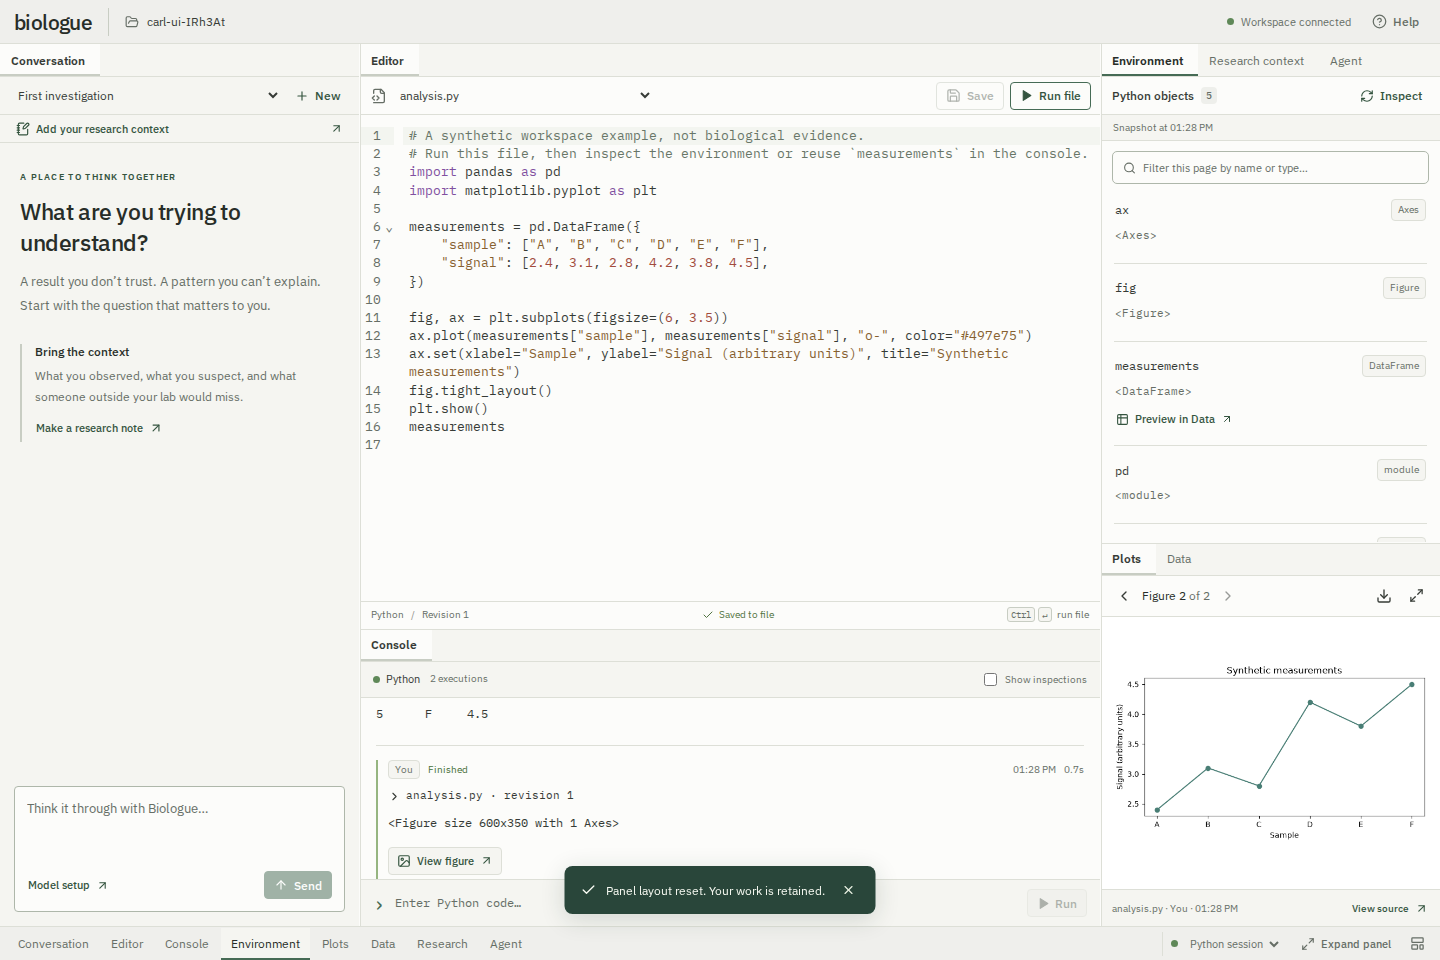
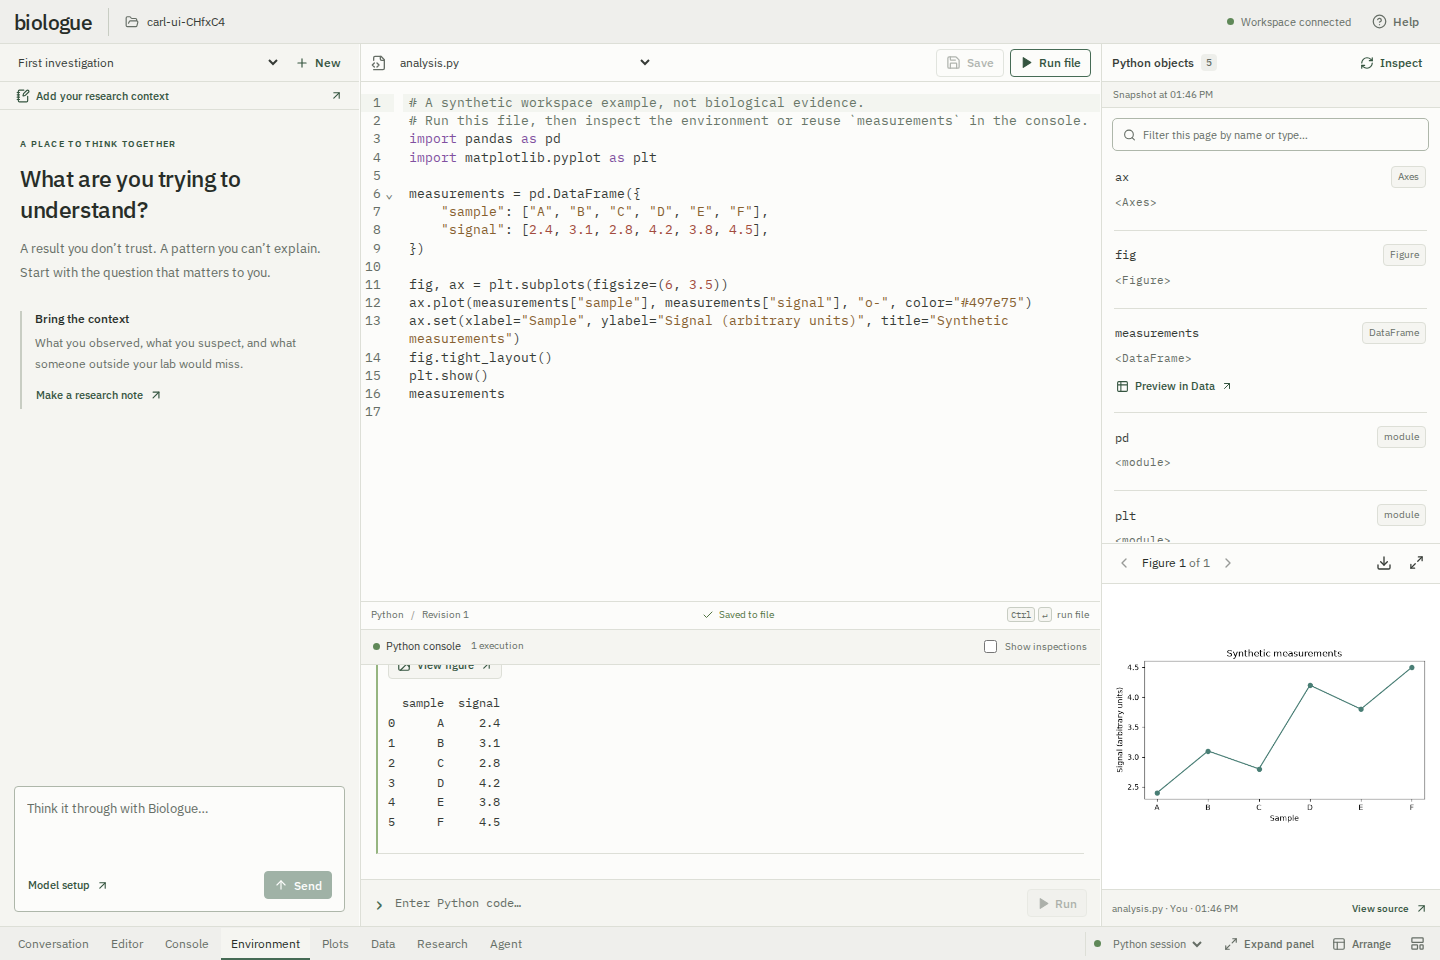
Reclaim pane space with temporary arrangement tabs

diff --git a/packages/workbench/src/App.tsx b/packages/workbench/src/App.tsx
@@ -9,6 +9,7 @@ import {
   LayoutTemplate,
   Maximize2,
   Minimize2,
+  PanelsTopLeft,
   ShieldCheck,
   WifiOff,
   X,
@@ -120,12 +121,26 @@ export function App() {
   const layout = useRef<WorkspaceApi | null>(null);
   const savedLayouts = useRef<Layouts>({});
   const mode = useRef<LayoutMode>(windowMode());
+  const arranging = useRef(false);
   const cleanup = useRef<() => void>(() => {});
   const [active, setActive] = useState<PanelId>("editor");
   const [maximized, setMaximized] = useState(false);
+  const [isArranging, setIsArranging] = useState(false);
   const [help, setHelp] = useState(false);
   const [layoutMode, setLayoutMode] = useState(mode.current);
   const reviewCount = wb.snapshot?.permissions.length || 0;
+  function updateHeader(group: WorkspaceApi["groups"][number]) {
+    const hidden = !arranging.current || mode.current === "narrow";
+    if (group.header.hidden === hidden) return;
+    group.header.hidden = hidden;
+    group.relayout();
+  }
+  function arrangePanels(enabled: boolean) {
+    arranging.current = enabled;
+    setIsArranging(enabled);
+    if (enabled) layout.current?.exitMaximizedGroup();
+    layout.current?.groups.forEach(updateHeader);
+  }
   function reveal(id: PanelId, maximize = false) {
     const target = layout.current?.getPanel(id);
     if (!target) return;
@@ -151,8 +166,10 @@ export function App() {
       } else if (event.altKey && event.key.toLowerCase() === "f") {
         event.preventDefault();
         toggleFocus();
-      } else if (event.key === "Escape" && layout.current?.hasMaximizedGroup())
-        layout.current.exitMaximizedGroup();
+      } else if (event.key === "Escape") {
+        if (arranging.current) arrangePanels(false);
+        else if (layout.current?.hasMaximizedGroup()) layout.current.exitMaximizedGroup();
+      }
     };
     window.addEventListener("keydown", keydown);
     return () => window.removeEventListener("keydown", keydown);
@@ -178,6 +195,7 @@ export function App() {
       restoring = true;
       mode.current = next;
       setLayoutMode(next);
+      if (next === "narrow") arrangePanels(false);
       view.exitMaximizedGroup();
       try {
         const saved = savedLayouts.current[next];
@@ -189,12 +207,15 @@ export function App() {
       } catch {
         defaultLayout(view, next);
       }
+      // Header visibility is temporary; a saved arrangement can contain either state.
+      view.groups.forEach(updateHeader);
       setMaximized(view.hasMaximizedGroup());
       setActive((view.activePanel?.id || "editor") as PanelId);
       restoring = false;
     }
     restore(windowMode());
     const subscriptions = [
+      view.onDidAddGroup(updateHeader),
       view.onDidActivePanelChange((event) => {
         if (event.panel) setActive(event.panel.id as PanelId);
       }),
@@ -286,14 +307,9 @@ export function App() {
         <main
           className={`workspace layout-${layoutMode}`}
           data-expanded={maximized}
+          data-arranging={isArranging}
           aria-label="Scientific workspace"
         >
-          {layoutMode === "narrow" && wb.snapshot && (
-            <div className="mobile-panel-heading">
-              <strong>{panels.find((panel) => panel.id === active)?.title}</strong>
-              <span>Workspace</span>
-            </div>
-          )}
           {wb.snapshot ? (
             <div className="dock-layout">
               <DockviewReact
@@ -372,6 +388,17 @@ export function App() {
             <span>{maximized ? "Restore layout" : "Expand panel"}</span>
           </button>
           <button
+            className="text-button arrange-panels"
+            aria-label={isArranging ? "Done arranging panels" : "Arrange panels"}
+            aria-pressed={isArranging}
+            title={isArranging ? "Finish arranging (Esc)" : "Show tabs to drag and regroup panels"}
+            disabled={!wb.snapshot}
+            onClick={() => arrangePanels(!arranging.current)}
+          >
+            {isArranging ? <Check size={14} /> : <PanelsTopLeft size={14} />}
+            <span>{isArranging ? "Done arranging" : "Arrange"}</span>
+          </button>
+          <button
             className="icon"
             aria-label="Reset panel layout"
             title="Reset layout for this window size"
@@ -379,6 +406,7 @@ export function App() {
             onClick={() => {
               if (layout.current) {
                 defaultLayout(layout.current, mode.current);
+                layout.current.groups.forEach(updateHeader);
                 wb.notify("Panel layout reset. Your work is retained.");
               }
             }}
@@ -405,8 +433,9 @@ export function App() {
       {help && (
         <Dialog title="Make yourself at home" onClose={() => setHelp(false)}>
           <p>
-            Drag tabs to arrange your workspace. The layout adapts to smaller windows and remembers
-            your arrangement at each size.
+            Choose Arrange in the bottom bar to reveal tabs, then drag them to move or group panels.
+            Choose Done arranging or press Escape to hide the tabs. The layout remembers your
+            arrangement at each window size.
           </p>
           <div className="help-section">
             <h3>Keep your work in view</h3>

diff --git a/tests/usability.spec.ts b/tests/usability.spec.ts
@@ -159,6 +159,64 @@ test("environment pages stay distinct from targeted agent inspections and unknow
   );
 });
 
+test("tabs appear only while arranging and regrouped panels survive reload", async ({ page }) => {
+  const ui = await fixture(page);
+  ui.handle(async (request) => {
+    if (request.path === "/layout" && request.method === "PUT") {
+      ui.state.layout = request.body;
+      return { body: { ok: true } };
+    }
+  });
+  await page.goto("/");
+  await expect(page.getByRole("button", { name: "Run file", exact: true })).toBeVisible();
+  await expect(page.getByRole("tab")).toHaveCount(0);
+  await page.getByRole("button", { name: "Open Research context", exact: true }).click();
+  await page
+    .getByRole("textbox", { name: "Research context", exact: true })
+    .fill("Keep this draft");
+  await page.getByRole("button", { name: "Arrange panels", exact: true }).click();
+  await expect(page.getByRole("tab")).toHaveCount(8);
+  await page
+    .getByRole("tab", { name: "Research context", exact: true })
+    .dragTo(page.getByRole("tab", { name: "Editor", exact: true }));
+  const editorGroup = page.locator(".dv-groupview").filter({
+    has: page.getByRole("tab", { name: "Editor", exact: true }),
+  });
+  await expect(
+    editorGroup.getByRole("tab", { name: "Research context", exact: true }),
+  ).toBeVisible();
+  await expect
+    .poll(() => JSON.stringify(ui.state.layout))
+    .toMatch(/"views":\["(editor","context|context","editor)"\]/);
+  // Reload while the saved layout has visible headers. Arrangement mode is temporary.
+  await page.reload();
+  await expect(page.getByRole("button", { name: "Arrange panels", exact: true })).toBeEnabled();
+  await expect(page.getByRole("tab")).toHaveCount(0);
+  await page.getByRole("button", { name: "Open Research context", exact: true }).click();
+  await expect(page.getByRole("textbox", { name: "Research context", exact: true })).toHaveValue(
+    "Keep this draft",
+  );
+  await page.getByRole("button", { name: "Arrange panels", exact: true }).click();
+  await expect(
+    editorGroup.getByRole("tab", { name: "Research context", exact: true }),
+  ).toBeVisible();
+  await page.getByRole("button", { name: "Reset panel layout", exact: true }).click();
+  await expect(page.getByRole("tab")).toHaveCount(8);
+  await page.getByRole("button", { name: "Done arranging panels", exact: true }).click();
+  await expect(page.getByRole("tab")).toHaveCount(0);
+  await page.getByRole("button", { name: "Reset panel layout", exact: true }).click();
+  await expect(page.getByRole("tab")).toHaveCount(0);
+  await page.getByRole("button", { name: "Arrange panels", exact: true }).click();
+  await page.keyboard.press("Escape");
+  await expect(page.getByRole("tab")).toHaveCount(0);
+  await page.getByRole("button", { name: "Arrange panels", exact: true }).click();
+  await page.setViewportSize({ width: 640, height: 760 });
+  await expect(page.getByRole("tab")).toHaveCount(0);
+  await page.setViewportSize({ width: 1440, height: 960 });
+  await expect(page.getByRole("button", { name: "Arrange panels", exact: true })).toBeVisible();
+  await expect(page.getByRole("tab")).toHaveCount(0);
+});
+
 test("compact layouts, focus, and keyboard navigation retain local work", async ({ page }) => {
   await fixture(page);
   await page.goto("/");

diff --git a/tests/workspace.spec.ts b/tests/workspace.spec.ts
@@ -32,7 +32,7 @@ test("a scientist can run code, reuse objects, inspect data, and retain context 
   await expect
     .poll(() => page.evaluate(() => navigator.clipboard.readText()))
     .toContain("sample\tsignal\nA\t2.4");
-  await page.getByRole("tab", { name: "Research context", exact: true }).click();
+  await page.getByRole("button", { name: "Open Research context", exact: true }).click();
   await page
     .getByRole("textbox", { name: "Research context", exact: true })
     .fill("These measurements are synthetic. No biological interpretation has been established.");
@@ -46,14 +46,14 @@ test("a scientist can run code, reuse objects, inspect data, and retain context 
   await expect(page.getByText("The working document changed.", { exact: true })).toHaveCount(0);
   await page.reload();
   await expect(page.locator(".cm-content")).toContainText("A retained unsaved buffer");
-  await page.getByRole("tab", { name: "Research context", exact: true }).click();
+  await page.getByRole("button", { name: "Open Research context", exact: true }).click();
   await expect(page.getByRole("textbox", { name: "Research context", exact: true })).toHaveValue(
     "These measurements are synthetic. No biological interpretation has been established.",
   );
   await page.locator(".cm-content").click();
   await page.keyboard.press("ControlOrMeta+s");
   await expect(page.locator(".dirty-dot")).toHaveCount(0);
-  await page.getByRole("tab", { name: "Plots", exact: true }).click();
+  await page.getByRole("button", { name: "Open Plots", exact: true }).click();
   const download = page.waitForEvent("download");
   await page.getByRole("link", { name: "Download figure", exact: true }).click();
   expect((await download).suggestedFilename()).toMatch(/^biologue-python-figure-.*\.png$/);

diff --git a/packages/workbench/src/styles.css b/packages/workbench/src/styles.css
@@ -385,28 +385,8 @@ kbd {
   flex: 1;
   min-height: 0;
 }
-.mobile-panel-heading {
-  display: flex;
-  align-items: center;
-  justify-content: space-between;
-  gap: 12px;
-  padding: 8px 14px;
-  border-bottom: 1px solid var(--border);
-  background: var(--surface);
-  flex-shrink: 0;
-}
-.mobile-panel-heading strong {
-  font-size: 13px;
-  font-weight: 600;
-}
-.mobile-panel-heading > span {
-  color: var(--muted);
-  font-size: 11px;
-}
-.layout-narrow .dv-tabs-and-actions-container {
-  display: none;
-}
 .app:has(.layout-narrow) .panel-focus,
+.app:has(.layout-narrow) .arrange-panels,
 .layout-narrow button[aria-label="Expand data"],
 .layout-narrow button[aria-label="Expand figure"],
 .workspace[data-expanded="true"] button[aria-label="Expand data"],
@@ -452,6 +432,10 @@ kbd {
   font-size: 11px;
   padding: 2px 6px;
   color: var(--muted);
+}
+.status-bar .arrange-panels[aria-pressed="true"] {
+  background: var(--surface);
+  color: var(--accent-dark);
 }
 .status-dot,
 .pulse {
@@ -578,6 +562,9 @@ kbd {
   display: none !important;
 }
 .dv-content-container {
+  border-top: 0;
+}
+.workspace[data-arranging="true"] .dv-content-container {
   border-top: 1px solid var(--border);
 }
 .pane {
@@ -1520,6 +1507,11 @@ kbd {
 .research-intro {
   padding: 14px 16px 0;
   flex-shrink: 0;
+}
+.research-intro h2 {
+  font-size: 13px;
+  font-weight: 600;
+  margin: 0 0 6px;
 }
 .research-intro p {
   font-size: 12px;

diff --git a/scripts/audits/ui-review.ts b/scripts/audits/ui-review.ts
@@ -51,6 +51,17 @@ try {
     empty.getByRole("heading", { name: "What are you trying to understand?" }),
   ).toBeVisible();
   await capture(empty, "01-empty-workspace");
+  await empty.getByRole("button", { name: "Arrange panels", exact: true }).click();
+  await capture(empty, "01-arrange-panels");
+  await empty.getByRole("button", { name: "Done arranging panels", exact: true }).click();
+  for (const width of [900, 1220]) {
+    await empty.setViewportSize({ width, height: 768 });
+    await capture(empty, `01-${width}-workspace`);
+    await empty.getByRole("button", { name: "Arrange panels", exact: true }).click();
+    await capture(empty, `01-${width}-arrange-panels`);
+    await empty.getByRole("button", { name: "Done arranging panels", exact: true }).click();
+  }
+  await empty.setViewportSize({ width: 1440, height: 960 });
   for (const panel of ["Research context", "Agent", "Data"]) {
     await open(empty, panel);
     if (panel === "Agent") await empty.locator(".model-setup summary").click();

diff --git a/packages/workbench/src/panels/Console.tsx b/packages/workbench/src/panels/Console.tsx
@@ -228,7 +228,7 @@ export function Console() {
     <div className="pane console">
       <div className="pane-toolbar console-toolbar">
         <span className={`status-dot ${pending.length ? "waiting" : connected ? "online" : ""}`} />
-        <span>{languageName(language)}</span>
+        <span>{languageName(language)} console</span>
         <span className="small-note">
           {pending.length
             ? `${pending.length} active / queued`

diff --git a/packages/workbench/src/panels/ResearchContext.tsx b/packages/workbench/src/panels/ResearchContext.tsx
@@ -32,6 +32,7 @@ export function ResearchContext() {
     <div className="pane research">
       <div className="research-body">
         <div className="research-intro">
+          <h2>Research context</h2>
           <p>Your question, observations, and corrections. Saved notes inform the next run.</p>
           <details className="context-guide">
             <summary>What belongs here?</summary>

diff --git a/docs/ui-review.md b/docs/ui-review.md
@@ -14,6 +14,11 @@ scripted conversation, approval, conflict, and connection states. No model calls
   bottom edge. Below 900 pixels, all eight panel choices remain visible in two
   rows and switch between full-height panels. Existing layouts and local drafts
   are retained.
+- Removed the duplicate top tab strips during normal work, recovering 32 pixels
+  per pane. Arrange in the bottom bar temporarily reveals tabs for dragging and
+  regrouping; Done arranging or Escape hides them. Resizing dividers remains
+  available throughout. Restored layouts always start with tabs hidden, and
+  small windows omit the redundant panel heading.
 - Simplified conversations into a readable transcript; labeled New, Send, and
   Stop actions. Kept research notes freeform with guidance distinguishing
   observations, interpretations, assumptions, and corrections. The Save footer
@@ -33,15 +38,17 @@ scripted conversation, approval, conflict, and connection states. No model calls
 
 ## Visual coverage
 
-The review captures 68 screenshots across 1440×960, 1024×768, 760×650, 640×760,
-and 390×844 windows. Coverage includes all eight panels; real plots, tables, and
-objects; populated Markdown conversations; expanded panels; code review, help,
+The review captures 73 screenshots across 1440×960, 1220×768, 1024×768, 900×768,
+760×650, 640×760, and 390×844 windows. Coverage includes arrangement mode;
+all eight panels; real plots, tables, and objects; populated Markdown
+conversations; expanded panels; code review, help,
 and new-conversation dialogs; empty projects; offline state; execution errors;
 document and context conflicts; result loading and retry; and object pagination.
 
 The automated browser suite additionally checks keyboard navigation, modal focus
-return, drafts, conflict handling, approval decisions, artifact provenance, and
-accessibility with axe. The native Tauri window and screen readers were not tested.
+return, dragging and restoring arrangements, drafts, conflict handling, approval
+decisions, artifact provenance, and accessibility with axe. The native Tauri
+window and screen readers were not tested.
 
 ## Reproduce
 

diff --git a/designs/zed-inspired/README.md b/designs/zed-inspired/README.md
@@ -21,8 +21,10 @@ browser UI with real Python output from the synthetic example project. See the
   follows the preference established in earlier UI reviews.
 
 The implementation retains visible keyboard focus, labeled navigation, resizable
-panes, and existing execution and review behavior. Usability with scientists still
-needs human evaluation; scripted UI checks cover interaction and accessibility.
+panes, and existing execution and review behavior. Panel navigation lives in the
+bottom bar; Arrange temporarily reveals top tabs for dragging and regrouping.
+Usability with scientists still needs human evaluation; scripted UI checks cover
+interaction and accessibility.
 
 ## Reference and generation
 
